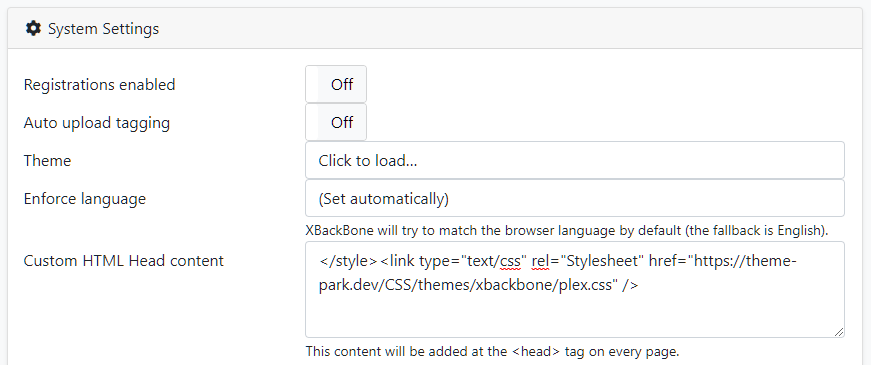
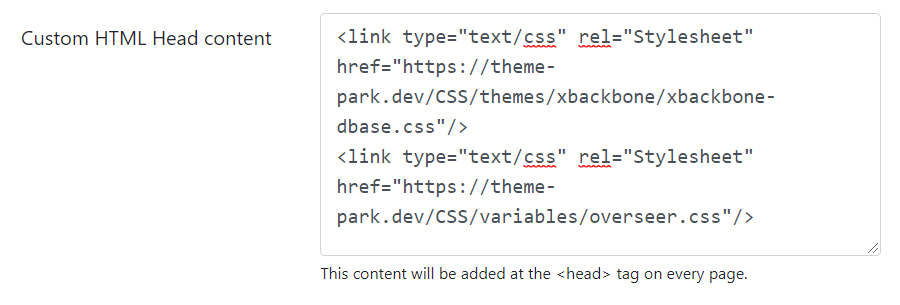
updated install docs and fixed overseerr typo

diff --git a/docs/theme-options/overseerr.md b/docs/theme-options/overseerr.md
@@ -1,0 +1,15 @@
+<p align="center">
+
+<img src="/theme-options/{{ page.title.lower() }}_banner.png"/>
+<p align="center">
+    <a href="/site_assets/sonarr/overseerr.png" rel="noopener"><img src="/site_assets/sonarr/overseerr.png" alt="Screen Shot 1" width="49.15%" /></a>
+    <a href="/site_assets/unraid/overseerr.png" rel="noopener"><img src="/site_assets/unraid/overseerr.png" alt="Screen Shot 2" width="49.15%" /></a>
+    <a href="/site_assets/pihole/overseerr.png" rel="noopener"><img src="/site_assets/pihole/overseerr.png" alt="Screen Shot 3" width="49.15%" /></a>
+    <a href="/site_assets/qbittorrent/overseerr.png" rel="noopener"><img src="/site_assets/qbittorrent/overseerr.png" alt="Screen Shot 4" width="49.15%" /></a>
+    <a href="/site_assets/ombi/overseerr.png" rel="noopener"><img src="/site_assets/ombi/overseerr.png" alt="Screen Shot 4" width="49.15%" /></a>
+    <a href="/site_assets/gitea/overseerr.png" rel="noopener"><img src="/site_assets/gitea/overseerr.png" alt="Screen Shot 4" width="49.15%" /></a>
+    <a href="/site_assets/nzbget/overseerr.png" rel="noopener"><img src="/site_assets/nzbget/overseerr.png" alt="Screen Shot 4" width="49.15%" /></a>
+    <a href="/site_assets/sabnzbd/overseerr.png" rel="noopener"><img src="/site_assets/sabnzbd/overseerr.png" alt="Screen Shot 4" width="49.15%" /></a>
+    <a href="/site_assets/plex/overseerr.png" rel="noopener"><img src="/site_assets/plex/overseerr.png" alt="Screen Shot 4" width="49.15%" /></a>
+    <a href="/site_assets/petio/overseerr.png" rel="noopener"><img src="/site_assets/petio/overseerr.png" alt="Screen Shot 4" width="49.15%" /></a>
+</p>

diff --git a/docs/themes/qbittorrent.md b/docs/themes/qbittorrent.md
@@ -51,7 +51,7 @@ location /qbt/ {
 #### ⚠ Issues
 
 If you get errors in the browser console, and the RSS tab stop working (See https://github.com/gilbN/theme.park/issues/132)
-You need to subfilter the `<noscript>` tag instead of the `</head>` tag. 
+You need to subfilter the `<noscript>` tag instead of the `</head>` tag.
 
 #### example
 
@@ -59,7 +59,8 @@ You need to subfilter the `<noscript>` tag instead of the `</head>` tag.
 proxy_set_header Accept-Encoding "";
 sub_filter
 '<noscript>'
-'<link rel="stylesheet" type="text/css" href="https://theme-park.dev/CSS/themes/<APP_NAME>/THEME.css">
+'<link rel="stylesheet" type="text/css" href="https://theme-park.dev/CSS/themes/qbittorrent/qbittorrent-base.css">
+<link rel="stylesheet" type="text/css" href="https://theme-park.dev/CSS/variables/<THEME>.css">
 <noscript>';
 sub_filter_once on;
 ```

diff --git a/docs/themes/jellyfin.md b/docs/themes/jellyfin.md
@@ -20,9 +20,21 @@ https://theme-park.dev/CSS/themes/{{ page.title.split()[0].lower() }}/XXX.css
 
 Go to `Dashboard` -> `General` and scroll down to `Branding`
 
-In the custom CSS input field add: `@import url("https://theme-park.dev/CSS/themes/jellyfin/<THEME>.css");` and hit save.
+In the custom CSS input field add:
 
-i.e. `@import url("https://theme-park.dev/CSS/themes/jellyfin/space-gray.css");`
+```css
+@import url("https://theme-park.dev/CSS/themes/jellyfin/jellyfin-base.css");
+@import url("https://theme-park.dev/CSS/variables/<THEME>.css");
+```
+
+and hit save.
+
+i.e.
+
+```css
+@import url("https://theme-park.dev/CSS/themes/jellyfin/jellyfin-base.css");
+@import url("https://theme-park.dev/CSS/variables/dracula.css");
+```
 
 <img src="/site_assets/{{ page.title.split()[0].lower() }}/example.png"></img>
 

diff --git a/docs/themes/pihole.md b/docs/themes/pihole.md
@@ -33,7 +33,8 @@ sub_filter
 '<meta http-equiv="Content-Security-Policy" content="default-src \'none\'; base-uri \'none\'; child-src \'self\'; form-action \'self\'; frame-src \'self\'; font-src \'self\'; connect-src \'self\'; img-src \'self\' https://raw.githubusercontent.com; manifest-src \'self\'; script-src \'self\' \'unsafe-inline\'; style-src \'self\' https://raw.githubusercontent.com https://theme-park.dev \'unsafe-inline\'">';
 sub_filter
 '</head>'
-'<link rel="stylesheet" type="text/css" href="https://theme-park.dev/CSS/themes/pihole/<THEME>.css">
+'<link rel="stylesheet" type="text/css" href="https://theme-park.dev/CSS/themes/pihole/pihole-base.css">
+<link rel="stylesheet" type="text/css" href="https://theme-park.dev/CSS/variables/<THEME>.css">
 </head>';
 sub_filter_once on;
 ```

diff --git a/docs/themes/filebrowser.md b/docs/themes/filebrowser.md
@@ -20,7 +20,12 @@ https://theme-park.dev/CSS/themes/{{ page.title.split()[0].lower() }}/XXX.css
 
 Can also be installed locally: [https://filebrowser.xyz/configuration/custom-branding](https://filebrowser.xyz/configuration/custom-branding)
 
-In the `custom.css` file add `@import "https://theme-park.dev/CSS/themes/filebrowser/<THEME-NAME>.css";`
+In the `custom.css` file add:
+
+```css
+@import url("https://theme-park.dev/CSS/themes/filebrowser/filebrowser-base.css");
+@import url("https://theme-park.dev/CSS/variables/dracula.css");
+```
 
 {% set addons = extra.addons %}
 {% set title = page.title.split()[0].lower() %}

diff --git a/docs/themes/unraid.md b/docs/themes/unraid.md
@@ -30,7 +30,9 @@ https://theme-park.dev/CSS/themes/{{ page.title.split()[0].lower() }}/XXX.css
 7. **Optional:** Go to `Settings` -> `Display Settings` and set `Header custom text color:` to `FFF` and `Header custom background color:` to `000`
 
 ```html
-</style><link type="text/css" rel="Stylesheet" href="https://theme-park.dev/CSS/themes/unraid/<THEME>.css" />
+</style>
+<link type="text/css" rel="Stylesheet" href="https://theme-park.dev/CSS/themes/unraid/unraid-base.css" />
+<link type="text/css" rel="Stylesheet" href="https://theme-park.dev/CSS/variables/<THEME>.css" />
 ```
 
 {% set addons = extra.addons %}

diff --git a/docs/themes/organizr.md b/docs/themes/organizr.md
@@ -22,6 +22,15 @@ The themes can be found in the `Marketplace` menu in Organizr.
 
 2. To activate a theme go to `Settings` -> `Customize` -> `Appearance` -> `Colors & Themes` -> Select the theme in the dropdown.
 
+3. If you want to use a theme option that's not in the marketplace you can a theme using `Custom CSS`
+
+e.g.
+
+```css
+@import url("https://theme-park.dev/CSS/themes/organizr/organizr-base.css");
+@import url("https://theme-park.dev/CSS/variables/overseerr.css");
+```
+
 {% set addons = extra.addons %}
 {% set title = page.title.split()[0].lower() %}
 {% for app, addon_name in addons.items() %}

diff --git a/docs/themes/ombi.md b/docs/themes/ombi.md
@@ -27,7 +27,8 @@ https://theme-park.dev/CSS/themes/{{ page.title.split()[0].lower() }}/XXX.css
 Add
 
 ```css
-@import "https://theme-park.dev/CSS/themes/ombi/THEME_NAME.css";
+@import url("https://theme-park.dev/CSS/themes/ombi/ombi-base.css");
+@import url("https://theme-park.dev/CSS/variables/<THEME>.css");
 ```
 
 in custom css.
@@ -35,7 +36,8 @@ in custom css.
 E.g.
 
 ```css
-@import "https://theme-park.dev/CSS/themes/ombi/plex.css";
+@import url("https://theme-park.dev/CSS/themes/ombi/ombi-base.css");
+@import url("https://theme-park.dev/CSS/variables/plex.css");
 
 ```
 

diff --git a/docs/themes/xbackbone.md b/docs/themes/xbackbone.md
@@ -23,7 +23,8 @@ https://theme-park.dev/CSS/themes/{{ page.title.split()[0].lower() }}/XXX.css
 3. Add the HTML below in the `Custom HTML Head content` textarea. Remember to change `<THEME>` to the theme you want.
 
 ```html
-</style><link type="text/css" rel="Stylesheet" href="https://theme-park.dev/CSS/themes/xbackbone/<THEME>.css" />
+<link type="text/css" rel="Stylesheet" href="https://theme-park.dev/CSS/themes/xbackbone/xbackbone-base.css"/>
+<link type="text/css" rel="Stylesheet" href="https://theme-park.dev/CSS/variables/<THEME>.css"/>
 ```
 
 <p align="center">  

diff --git a/docs/themes/gitea.md b/docs/themes/gitea.md
@@ -31,7 +31,8 @@ If `public` doesn't exists, create it.
 In the styles.css file add: `@import url("https://theme-park.dev/CSS/themes/gitea/<YOUR_THEME>.css");` e.g.
 
 ```css
-@import url("https://theme-park.dev/CSS/themes/gitea/organizr-dark.css");
+@import url("https://theme-park.dev/CSS/themes/gitea/gitea-base.css");
+@import url("https://theme-park.dev/CSS/variables/dracula.css");
 ```
 
 In the `templates` folder create a folder called `custom` and add a file called `header.tmpl` with the contents: `<link rel="stylesheet" href="{{AppSubUrl}}/styles.css">`

diff --git a/docs/themes/emby.md b/docs/themes/emby.md
@@ -23,7 +23,8 @@ https://theme-park.dev/CSS/themes/{{ page.title.split()[0].lower() }}/XXX.css
 proxy_set_header Accept-Encoding "";
 sub_filter
 '</body>'
-'<link rel="stylesheet" type="text/css" href="https://theme-park.dev/CSS/themes/emby/aquamarine.css">
+'<link rel="stylesheet" type="text/css" href="https://theme-park.dev/CSS/themes/emby/emby-base.css">
+<link rel="stylesheet" type="text/css" href="https://theme-park.dev/CSS/variables/dracula.css">
 </body>';
 sub_filter_once on;
 ```
